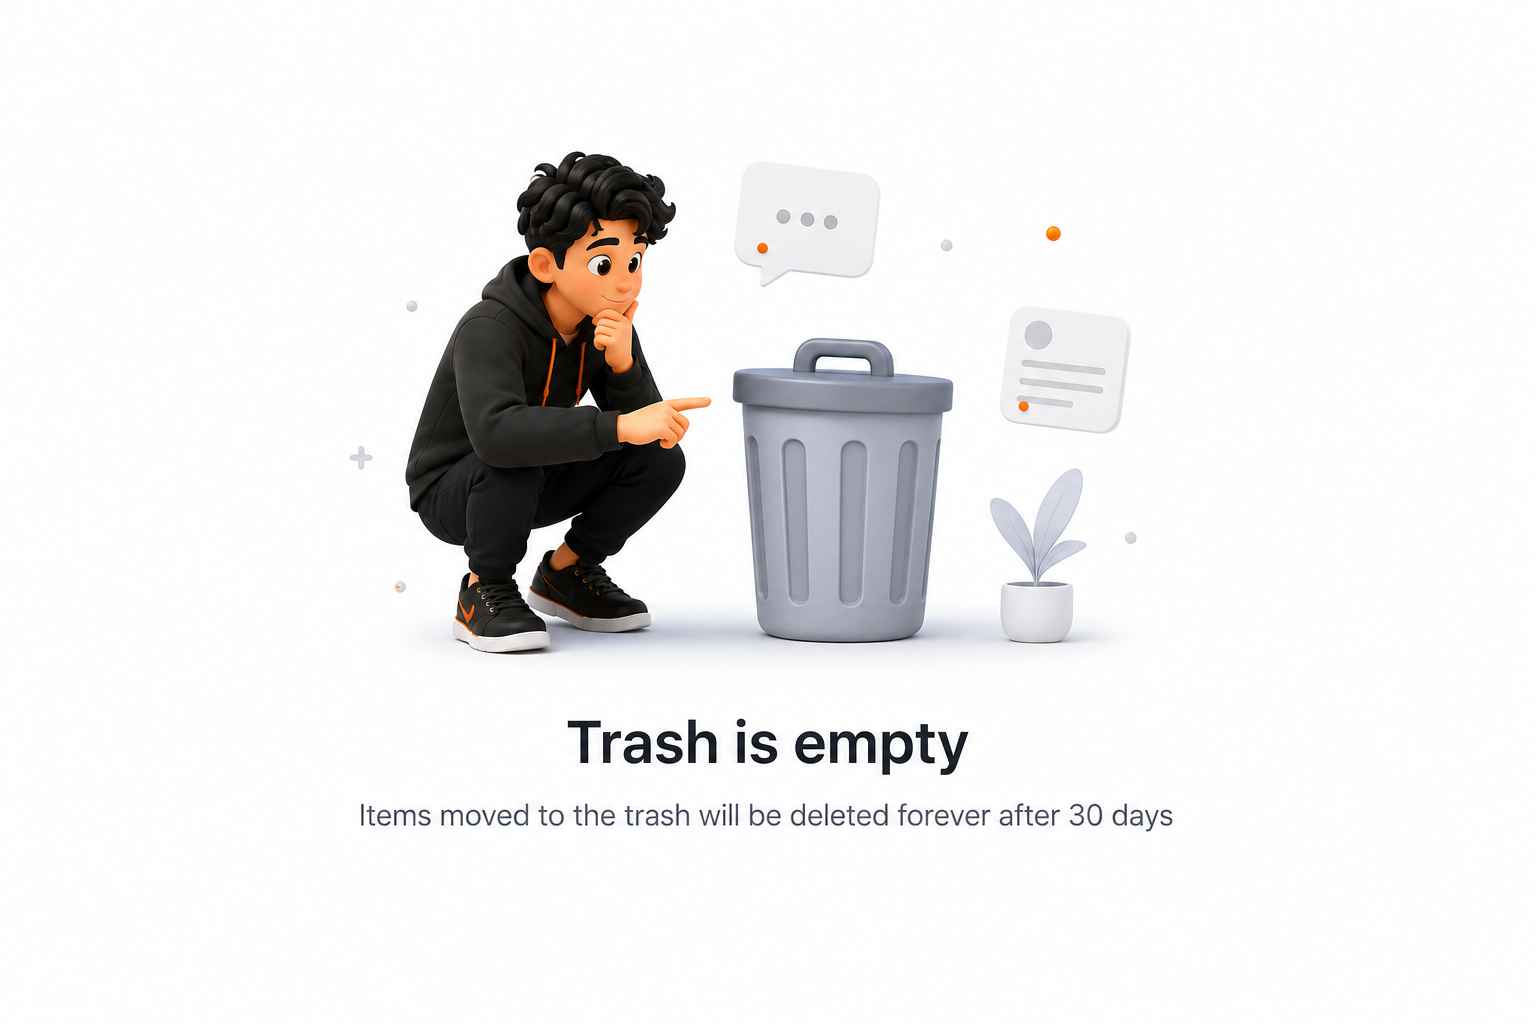
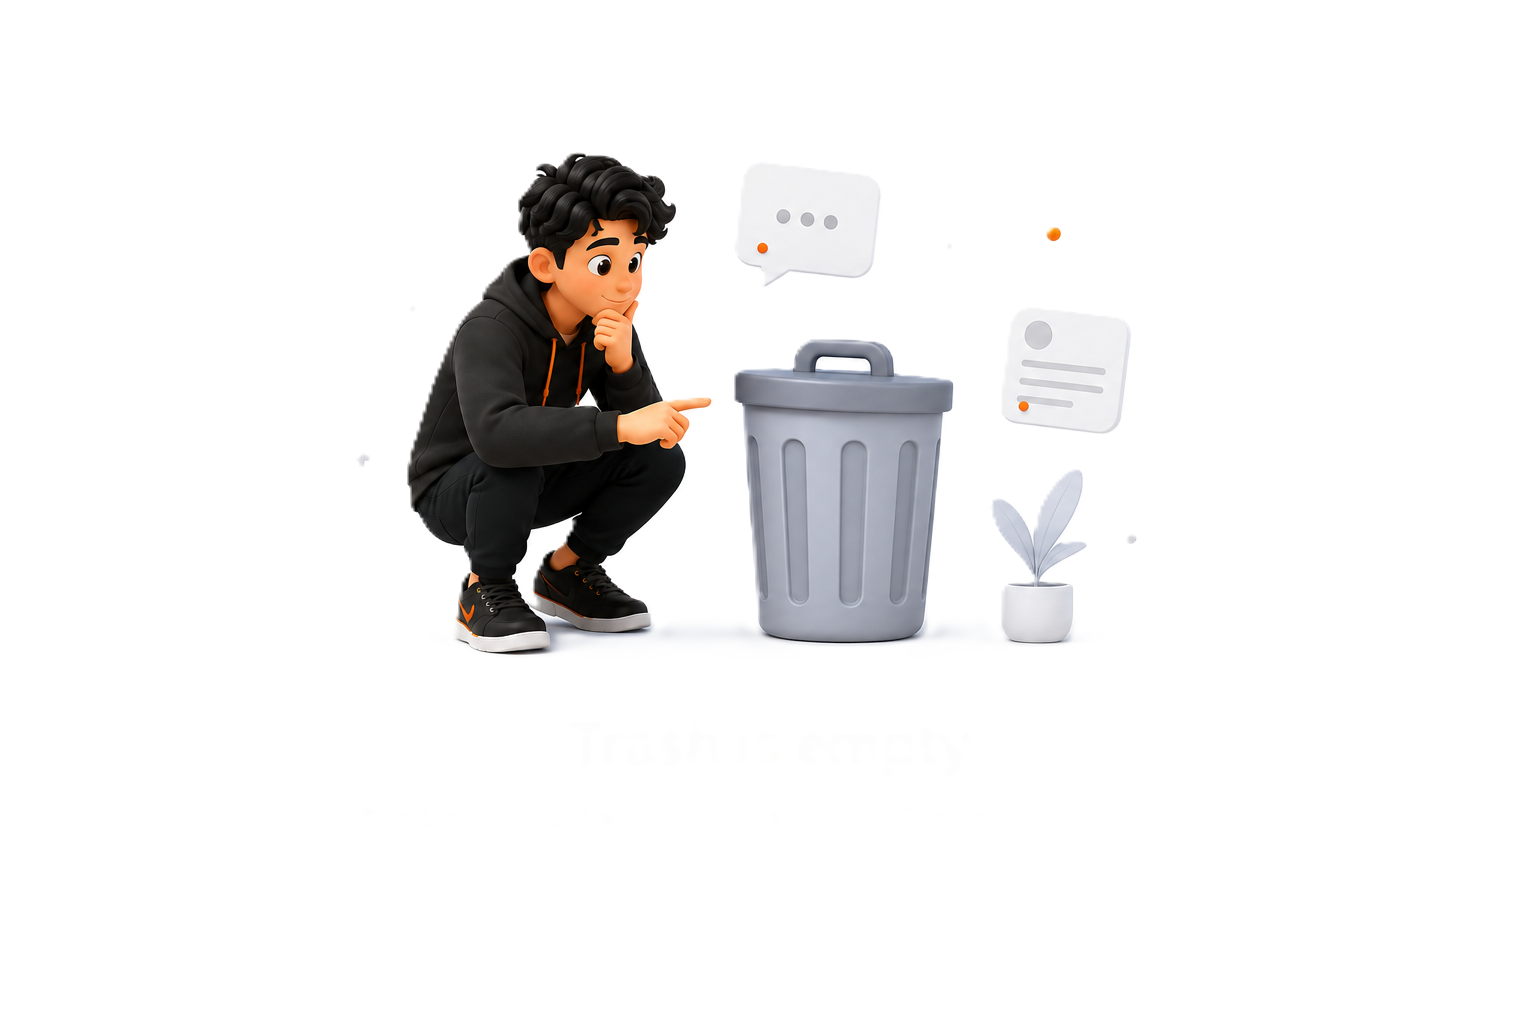
update intrface ui auth

diff --git a/src/index.css b/src/index.css
@@ -291,43 +291,127 @@ a {
   min-height: 100vh;
   min-height: 100dvh;
   display: grid;
-  place-items: center;
+  grid-template-columns: 1fr 1fr;
+  align-items: stretch;
   overflow-x: hidden;
   overflow-y: auto;
-  padding: 32px 16px 140px;
+  padding: 0;
   background: var(--auth-bg);
   color: var(--auth-text);
 }
 
-.auth-corner {
+.auth-hero {
+  position: relative;
+  z-index: 1;
+  display: grid;
+  grid-template-rows: 1fr auto;
+  align-items: center;
+  width: 100%;
+  min-height: 100vh;
+  min-height: 100dvh;
+  padding: 40px 32px 36px;
+  overflow: hidden;
+  background:
+    radial-gradient(1200px 700px at 18% 12%, rgba(123, 134, 255, 0.38), transparent 55%),
+    radial-gradient(900px 620px at 92% 88%, rgba(139, 92, 246, 0.28), transparent 50%),
+    linear-gradient(160deg, #e8ebff 0%, #efe8ff 46%, #f3f0ff 100%);
+}
+
+.auth-hero-glow {
   position: absolute;
-  bottom: 0;
-  z-index: 0;
+  border-radius: 50%;
+  filter: blur(40px);
   pointer-events: none;
-  user-select: none;
-  object-fit: contain;
-  width: min(360px, 34vw);
-  max-height: min(280px, 34vh);
+}
+
+.auth-hero-glow-a {
+  width: min(420px, 58%);
+  aspect-ratio: 1;
+  top: 18%;
+  left: 22%;
+  background: rgba(91, 108, 255, 0.32);
+}
+
+.auth-hero-glow-b {
+  width: min(260px, 40%);
+  aspect-ratio: 1;
+  right: 8%;
+  bottom: 16%;
+  background: rgba(167, 139, 250, 0.28);
+}
+
+.auth-hero-grid {
+  position: absolute;
+  inset: 0;
+  background-image: radial-gradient(rgba(91, 108, 255, 0.16) 1px, transparent 1px);
+  background-size: 22px 22px;
+  mask-image: radial-gradient(ellipse at 50% 42%, #000 35%, transparent 78%);
+  pointer-events: none;
+  opacity: 0.55;
+}
+
+.auth-hero-art {
+  position: relative;
+  z-index: 1;
+  width: min(490px, 80%);
+  justify-self: center;
+}
+
+.auth-hero-image {
+  position: relative;
+  display: block;
+  width: 100%;
   height: auto;
+  aspect-ratio: auto;
+  object-fit: contain;
+  object-position: center;
+  user-select: none;
 }
 
-.auth-corner-left {
-  left: 0;
-  object-position: left bottom;
+.auth-hero-copy {
+  position: relative;
+  z-index: 1;
+  max-width: 420px;
+  justify-self: center;
+  text-align: center;
+  padding-top: 4px;
 }
 
-.auth-corner-right {
-  right: 0;
-  object-position: right bottom;
+.auth-hero-kicker {
+  margin: 0 0 8px;
+  color: #5b6cff;
+  font-size: 11px;
+  font-weight: 700;
+  letter-spacing: 0.16em;
+  text-transform: uppercase;
+}
+
+.auth-hero-copy h2 {
+  margin: 0 0 8px;
+  color: #172b4d;
+  font-size: clamp(22px, 2.4vw, 30px);
+  font-weight: 700;
+  letter-spacing: -0.03em;
+  line-height: 1.15;
+}
+
+.auth-hero-copy p:last-child {
+  margin: 0;
+  color: #5a6a85;
+  font-size: 14px;
+  line-height: 1.5;
 }
 
 .auth-panel {
   position: relative;
   z-index: 1;
   width: 100%;
+  min-height: 100vh;
+  min-height: 100dvh;
   display: grid;
   place-items: center;
-  padding: 8px 0;
+  padding: 48px 24px;
+  background: var(--auth-bg);
 }
 
 .login-card {
@@ -494,14 +578,55 @@ a {
   justify-content: center;
   align-items: center;
   gap: 10px;
-  padding-top: 4px;
-  border-top: 1px solid #ebecf0;
+  padding: 8px 0 4px;
+  border-top: 0;
 }
 
 .login-card-footer .forgot-password-link {
   color: var(--auth-accent);
   font-size: 14px;
   font-weight: 500;
+  background: none;
+  border: 0;
+  padding: 0;
+  cursor: pointer;
+}
+
+.login-card-footer .forgot-password-link:hover {
+  text-decoration: underline;
+}
+
+.auth-card-brand {
+  display: grid;
+  justify-items: center;
+  gap: 14px;
+  width: 100%;
+  padding: 18px 0 4px;
+  border-top: 1px solid #ebecf0;
+}
+
+.auth-card-brand-lockup {
+  display: inline-flex;
+  align-items: center;
+  gap: 8px;
+  color: #172b4d;
+  font-family: "Outfit", "IBM Plex Sans", ui-sans-serif, sans-serif;
+  font-size: 15px;
+  font-weight: 700;
+  letter-spacing: 0.04em;
+  line-height: 1;
+  text-transform: uppercase;
+}
+
+.auth-card-brand-tagline {
+  margin: 0;
+  color: #6b778c;
+  font-family: "Outfit", "IBM Plex Sans", ui-sans-serif, sans-serif;
+  font-size: 12px;
+  font-weight: 400;
+  line-height: 1.4;
+  letter-spacing: 0;
+  text-align: center;
 }
 
 .login-card-brand {
@@ -10612,7 +10737,6 @@ a {
     overflow: auto;
   }
 
-  .auth-layout,
   .app-layout,
   .files-page,
   .chat-page,
@@ -10638,12 +10762,20 @@ a {
   }
 
   .auth-layout {
-    padding: 30px 30px 30px;
+    grid-template-columns: 1fr;
+    min-height: 100vh;
+    min-height: 100dvh;
+    height: auto;
   }
 
-  .auth-corner {
-    width: min(240px, 48vw);
-    max-height: min(190px, 26vh);
+  .auth-hero {
+    display: none;
+  }
+
+  .auth-panel {
+    min-height: 100vh;
+    min-height: 100dvh;
+    padding: 30px;
   }
 
   .login-card {

diff --git a/src/features/auth/components/AuthCardBrand.tsx b/src/features/auth/components/AuthCardBrand.tsx
@@ -1,24 +1,13 @@
+import { AcrediMark } from '../../../shared/ui';
+
 export function AuthCardBrand() {
   return (
-    <div
-      aria-label="Acredi Group"
-      style={{
-        display: 'flex',
-        alignItems: 'center',
-        justifyContent: 'center',
-        padding: '16px 0',
-        width: '100%',
-      }}
-    >
-      <span
-        style={{
-          color: '#000',
-          fontSize: 11,
-          letterSpacing: 2,
-        }}
-      >
-        Acredi Group
-      </span>
+    <div className="auth-card-brand">
+      <div className="auth-card-brand-lockup" aria-label="Acredi Group">
+        <AcrediMark size={18} top="#172B4D" left="#8B7FFF" right="#5B6CFF" />
+        <span>Acredi Group</span>
+      </div>
+      <p className="auth-card-brand-tagline">Un compte pour Acredi Space.</p>
     </div>
   );
 }

diff --git a/src/features/auth/components/AuthHero.tsx b/src/features/auth/components/AuthHero.tsx
@@ -1,0 +1,19 @@
+export function AuthHero() {
+  return (
+    <aside className="auth-hero" aria-hidden="true">
+      <div className="auth-hero-glow auth-hero-glow-a" />
+      <div className="auth-hero-glow auth-hero-glow-b" />
+      <div className="auth-hero-grid" />
+
+      <div className="auth-hero-art">
+        <img src="/custom/auth-hero.png" alt="" className="auth-hero-image" draggable={false} />
+      </div>
+
+      <div className="auth-hero-copy">
+        <p className="auth-hero-kicker">Espace de travail</p>
+        <h2>Tout collabore, ici.</h2>
+        <p>Fichiers, équipes, réunions et conversations — un seul endroit pour avancer.</p>
+      </div>
+    </aside>
+  );
+}

diff --git a/src/layouts/AuthLayout.tsx b/src/layouts/AuthLayout.tsx
@@ -1,22 +1,10 @@
 import { Outlet } from 'react-router-dom';
+import { AuthHero } from '../features/auth/components';
 
 export function AuthLayout() {
   return (
     <main className="auth-layout">
-      <img
-        className="auth-corner auth-corner-left"
-        src="/auth/corner-left.png"
-        alt=""
-        aria-hidden="true"
-        draggable={false}
-      />
-      <img
-        className="auth-corner auth-corner-right"
-        src="/auth/corner-right.png"
-        alt=""
-        aria-hidden="true"
-        draggable={false}
-      />
+      <AuthHero />
       <section className="auth-panel">
         <Outlet />
       </section>

diff --git a/index.html b/index.html
@@ -6,7 +6,7 @@
     <link rel="preconnect" href="https://fonts.googleapis.com" />
     <link rel="preconnect" href="https://fonts.gstatic.com" crossorigin />
     <link
-      href="https://fonts.googleapis.com/css2?family=IBM+Plex+Sans:ital,wght@0,400;0,500;0,600;0,700;1,400;1,500&display=swap"
+      href="https://fonts.googleapis.com/css2?family=IBM+Plex+Sans:ital,wght@0,400;0,500;0,600;0,700;1,400;1,500&family=Outfit:wght@400;600;700&display=swap"
       rel="stylesheet"
     />
     <script src="https://cdn.jsdelivr.net/npm/@tailwindcss/browser@4"></script>

diff --git a/src/features/auth/components/forms/LoginForm.tsx b/src/features/auth/components/forms/LoginForm.tsx
@@ -140,7 +140,7 @@ export function LoginForm({ redirectTo, authLoading = false }: LoginFormProps) {
         <button
           type="button"
           className="forgot-password-link"
-          onClick={() => navigate('/forgot-password')}
+          onClick={() => window.location.href= "/forgot-password"}
         >
           Vous ne pouvez pas vous connecter ?
         </button>

diff --git a/src/features/auth/components/index.ts b/src/features/auth/components/index.ts
@@ -1,4 +1,5 @@
 export { AuthCardBrand } from './AuthCardBrand';
+export { AuthHero } from './AuthHero';
 export { AuthFeedbackBanner } from './AuthFeedbackBanner';
 export { AuthSubmitButton } from './AuthSubmitButton';
 export {
